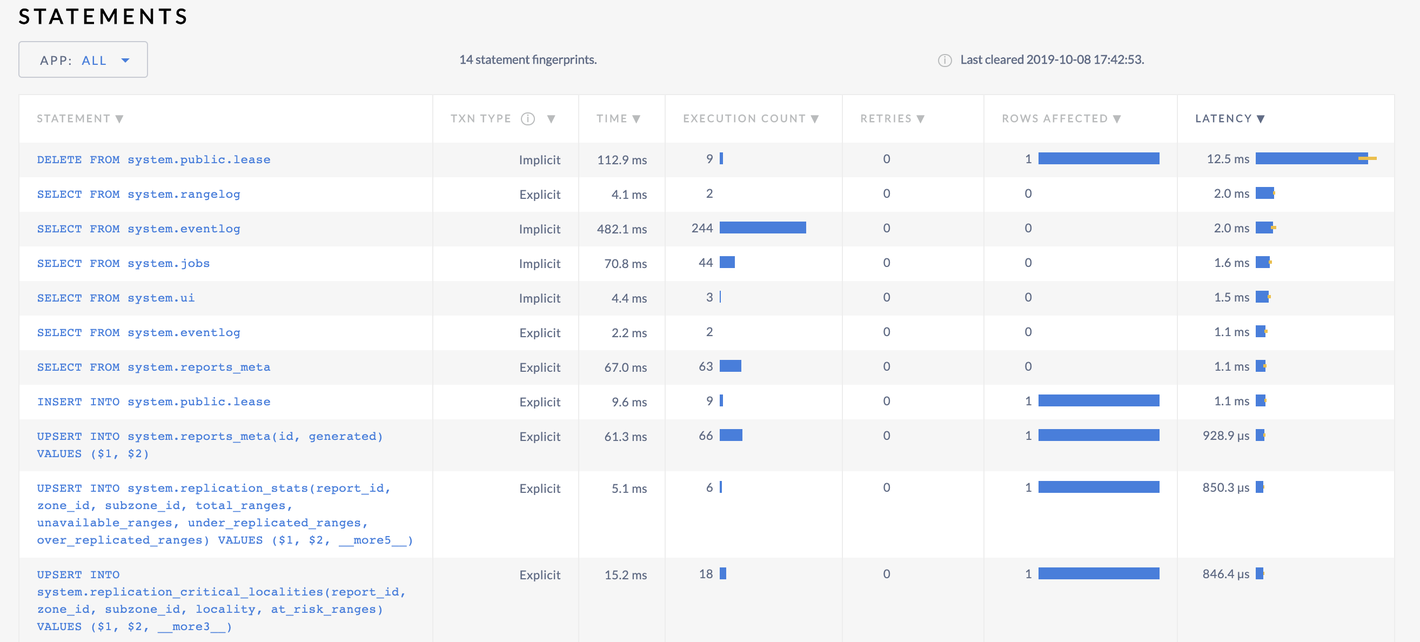
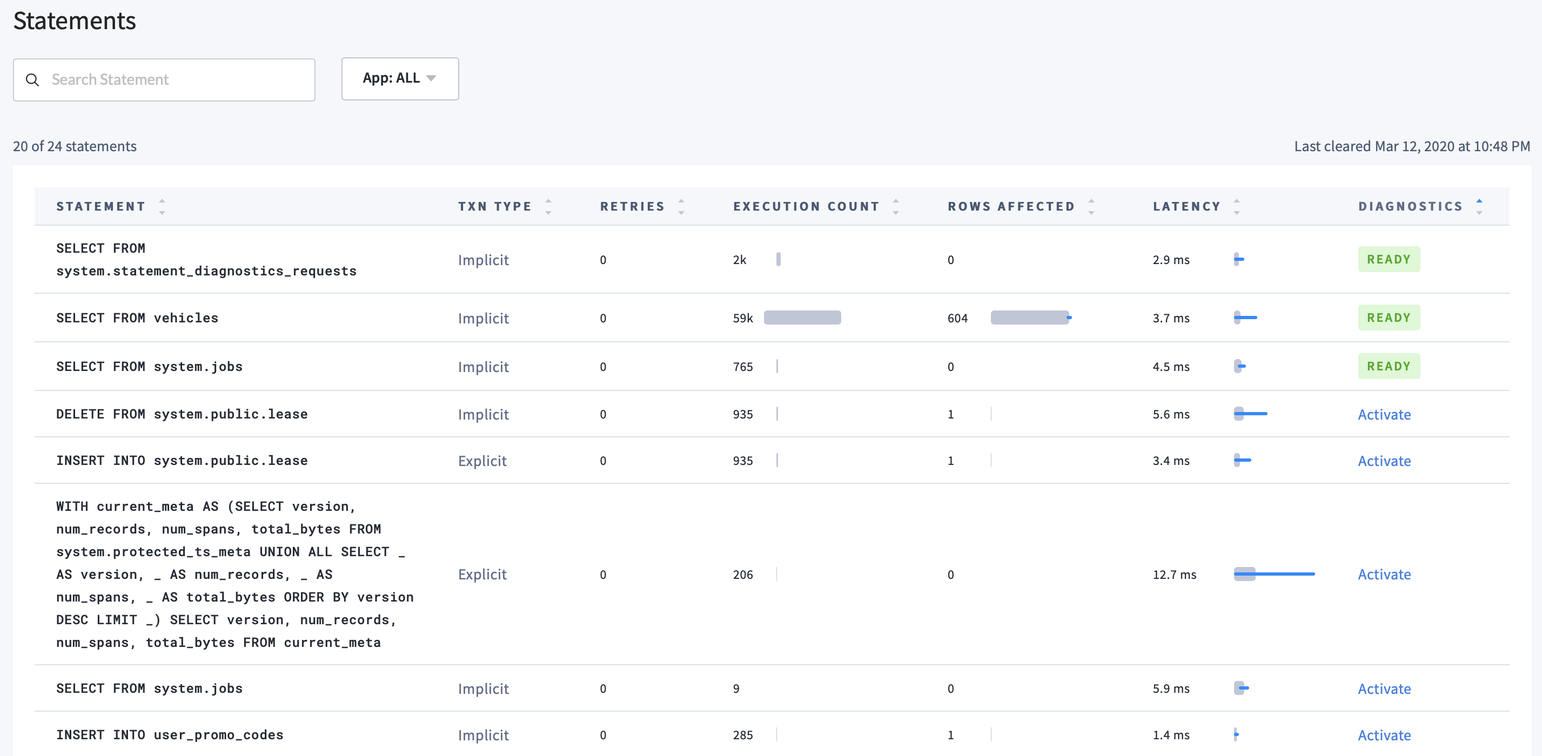
draft Statements page + trace docs

diff --git a/v20.1/admin-ui-statements-page.md b/v20.1/admin-ui-statements-page.md
@@ -7,135 +7,154 @@ toc: true
 On a secure cluster, this area of the Admin UI can only be accessed by an `admin` user. See [Admin UI access](admin-ui-overview.html#admin-ui-access).
 {{site.data.alerts.end}}
 
-The **Statements** page helps you identify frequently executed or high latency [SQL statements](sql-statements.html). The **Statements** page also allows you to view the details of an individual SQL statement by clicking on the statement to view the **Statement Details** page.
+The **Statements** page helps you identify frequently executed or high latency [SQL statements](sql-statements.html), view SQL statement [details](#statement-details), and download SQL statement [diagnostics](#diagnostics) for troubleshooting.
 
-To view the **Statements** page, [access the Admin UI](admin-ui-access-and-navigate.html#access-the-admin-ui) and then click **Statements** on the left.
+To view this page, [access the Admin UI](admin-ui-access-and-navigate.html#access-the-admin-ui) and click **Statements** in the left-hand navigation.
 
-<img src="{{ 'images/v20.1/admin-ui-statements-page.png' | relative_url }}" alt="CockroachDB Admin UI Statements Page" style="border:1px solid #eee;max-width:100%" />
+## Filter by application
 
-## Limitation
+By default, the page shows SQL statements from all applications running on the cluster, and hides internal CockroachDB queries.
 
-The **Statements** page displays the details of the SQL statements executed within a specified time interval. At the end of the interval, the display is wiped clean, and you'll not see any statements on the page until the next set of statements is executed. By default, the time interval is set to one hour; however, you can customize the interval using the [`diagnostics.reporting.interval`](cluster-settings.html#settings) cluster setting.
-
-## Filtering by application
-
-If you have multiple applications running on the cluster, the **Statements** page shows the statements from all of the applications by default. To view the statements pertaining to a particular application, select the [application name](connection-parameters.html#additional-connection-parameters) from the **App** dropdown menu. If you haven't set the application name in the connection string, it appears as `unset` in the dropdown menu.
+Use the **App** menu to filter the statements by [`application_name`](connection-parameters.html#additional-connection-parameters). If you haven't set `application_name` in the client connection string, it appears as `unset`. The menu also includes internal CockroachDB queries.
 
 ## Understanding the Statements page
 
-### SQL statement fingerprint
+Use this page to identify SQL statements that you may want to [troubleshoot](query-behavior-troubleshooting.html). This might include statements that are experiencing high latencies, multiple [retries](transactions.html#transaction-retries), or execution failures. You can optionally create and retrieve [diagnostics](#diagnostics) for these statements.
 
-The **Statements** page displays the details of SQL statement fingerprints instead of individual SQL statements.
+{{site.data.alerts.callout_success}}
+If you haven't yet executed any queries in the cluster as a user, this page will initially be blank.
+{{site.data.alerts.end}}
 
-A statement fingerprint is a grouping of similar SQL statements in their abstracted form by replacing the literal values with underscores (`_`). Grouping similar SQL statements as fingerprints helps you quickly identify frequently executed SQL statements and their latencies.
+<img src="{{ 'images/v20.1/admin-ui-statements-page.png' | relative_url }}" alt="CockroachDB Admin UI Statements Page" style="border:1px solid #eee;max-width:100%" />
 
-A statement fingerprint is generated when two or more statements are the same after any literal values in them (e.g.,numbers and strings) are replaced with underscores. For example, the following statements have the same once their numbers have been replaced with underscores:
+### Time interval
 
-- `INSERT INTO new_order(product_id, customer_id, transaction_id) VALUES (380, 11, 11098)`
-- `INSERT INTO new_order(product_id, customer_id, transaction_id) VALUES (192, 891, 20)`
-- `INSERT INTO new_order(product_id, customer_id, transaction_id) VALUES (784, 452, 78)`
+By default, the Statements page displays all SQL statements executed within a one-hour time interval. The display is cleared at the end of each interval. You can change the interval with the [`diagnostics.reporting.interval`](cluster-settings.html#settings) cluster setting.
 
-Thus, they can have the same fingerprint:
+### SQL statement fingerprints
 
-`INSERT INTO new_order(product_id, customer_id, no_w_id) VALUES (_, _, _)`
+The Statements page displays SQL statement *fingerprints*. 
 
-The following statements are different enough to not have the same fingerprint:
+A statement fingerprint represents one or more SQL statements by replacing literal values (e.g., numbers and strings) with underscores (`_`). This can help you quickly identify frequently executed SQL statements and their latencies.
 
-- `INSERT INTO orders(product_id, customer_id, transaction_id) VALUES (380, 11, 11098)`
-- `INSERT INTO new_order(product_id, customer_id, transaction_id) VALUES (380, 11, 11098)`
-- `INSERT INTO new_order(product_id, customer_id, transaction_id) VALUES ($1, 11, 11098)`
-- `INSERT INTO new_order(product_id, customer_id, transaction_id) VALUES ($1, $2, 11098)`
-- `INSERT INTO new_order(product_id, customer_id, transaction_id) VALUES ($1, $2, $3)`
+{{site.data.alerts.callout_info}}
+For multiple SQL statements to be represented by a fingerprint, they must be identical aside from their values:
 
-### Parameters
+- <code style="white-space:pre-wrap">INSERT INTO new_order(product_id, customer_id, transaction_id) VALUES (380, 11, 11098)</code>
+- <code style="white-space:pre-wrap">INSERT INTO new_order(product_id, customer_id, transaction_id) VALUES (192, 891, 20)</code>
+- <code style="white-space:pre-wrap">INSERT INTO new_order(product_id, customer_id, transaction_id) VALUES (784, 452, 78)</code>
 
-The **Statements** page displays the time, execution count, number of [retries](transactions.html#transaction-retries), number of rows affected, and latency for each statement fingerprint. By default, the statement fingerprints are sorted by time; however, you can sort the table by execution count, retries, rows affected, and latency.
+The above SQL statements have the fingerprint: 
 
-The following details are provided for each statement fingerprint:
+<code style="white-space:pre-wrap">INSERT INTO new_order(product_id, customer_id, no_w_id) VALUES (_, _, _)</code>
+
+The following statements cannot be represented by the same fingerprint:
+
+- <code style="white-space:pre-wrap">INSERT INTO orders(product_id, customer_id, transaction_id) VALUES (380, 11, 11098)</code>
+- <code style="white-space:pre-wrap">INSERT INTO new_order(product_id, customer_id, transaction_id) VALUES (380, 11, 11098)</code>
+- <code style="white-space:pre-wrap">INSERT INTO new_order(product_id, customer_id, transaction_id) VALUES ($1, 11, 11098)</code>
+- <code style="white-space:pre-wrap">INSERT INTO new_order(product_id, customer_id, transaction_id) VALUES ($1, $2, 11098)</code>
+- <code style="white-space:pre-wrap">INSERT INTO new_order(product_id, customer_id, transaction_id) VALUES ($1, $2, $3)</code>
+{{site.data.alerts.end}}
 
 Parameter | Description
 -----|------------
-Statement | The SQL statement or the fingerprint of similar SQL statements.<br><br>To view additional details of a statement fingerprint, click on the statement fingerprint in the **Statement** column to see the [**Statement Details** page](#statement-details-page).
-TXN Type | The type of transaction (implicit or explicit). Explicit transactions refer to the statements that are wrapped by [`BEGIN`](begin-transaction.html) and [`COMMIT`](commit-transaction.html) statements by the client. For statements not in explicit transactions, CockroachDB wraps each statement in individual implicit transactions. Explicit transactions employ [transactional pipelining](architecture/transaction-layer.html#transaction-pipelining) and therefore report latencies that do not account for replication.
-Time | The cumulative time taken to execute the SQL statement (or multiple statements having the same fingerprint) within the last hour or the [specified time interval](#limitation).
-Execution Count | The total number of times the SQL statement (or multiple statements having the same fingerprint) is executed within the last hour or the [specified time interval](#limitation). <br><br>The execution count is displayed in numerical value as well as in the form of a horizontal bar. The bar is color-coded to indicate the ratio of runtime success (indicated by blue) to runtime failure (indicated by red) of the execution count for the fingerprint. The bar also helps you compare the execution count across all SQL fingerprints in the table. <br><br>You can sort the table by count.
-Retries | The cumulative number of retries to execute the SQL statement (or multiple statements having the same fingerprint) within the last hour or the [specified time interval](#limitation).
-Rows Affected | The average number of rows returned while executing the SQL statement (or multiple statements having the same fingerprint) within the last hour or the [specified time interval](#limitation). <br><br>The number of rows returned are represented in two ways: The numerical value shows the number of rows returned, while the horizontal bar is color-coded (blue indicates the mean value and yellow indicates one standard deviation of the mean value of the number of rows returned). The bar helps you compare the mean rows across all SQL fingerprints in the table. <br><br>You can sort the table by rows returned.
-Latency | The average service latency of the SQL statement (or multiple statements having the same fingerprint) within the last hour or the [specified time interval](#limitation). <br><br>The latency is represented in two ways: The numerical value shows the mean latency, while the horizontal bar is color-coded (blue indicates the mean value and yellow indicates one standard deviation of the mean value of latency). The bar also helps you compare the mean latencies across all SQL fingerprints in the table. <br><br>You can sort the table by latency.
+Statement | SQL statement [fingerprint](#sql-statement-fingerprints).<br><br>To view additional details of a SQL statement fingerprint, click this to open the [**Statement Details** page](#statement-details-page).
+Txn Type | Type of transaction (implicit or explicit). Explicit transactions refer to statements that are wrapped by [`BEGIN`](begin-transaction.html) and [`COMMIT`](commit-transaction.html) statements by the client. Explicit transactions employ [transactional pipelining](architecture/transaction-layer.html#transaction-pipelining) and therefore report latencies that do not account for replication.<br><br>For statements not in explicit transactions, CockroachDB wraps each statement in individual implicit transactions. 
+Retries | Cumulative number of [retries](transactions.html#transaction-retries) of statements with this fingerprint within the last hour or specified [time interval](#time-interval).
+Execution Count | Cumulative number of executions of statements with this fingerprint within the last hour or specified [time interval](#time-interval). <br><br>The bar indicates the ratio of runtime success (gray) to runtime failure (red) for the SQL statement fingerprint.
+Rows Affected | Average number of rows returned while executing statements with this fingerprint within the last hour or specified [time interval](#time-interval). <br><br>The gray bar indicates the mean number of rows returned. The blue bar indicates one standard deviation from the mean.
+Latency | Average service latency of statements with this fingerprint within the last hour or specified [time interval](#time-interval). Service latency is the time taken to execute a query once it is received by the cluster. It does not include the time taken to return the result to the client. <br><br>The gray bar indicates the mean latency. The blue bar indicates one standard deviation from the mean.
+Diagnostics | <span class="version-tag">New in v20.1:</span> Option to activate [diagnostics](#diagnostics) for this statement. If activated, this displays the status of diagnostics collection (`WAITING FOR QUERY`, `READY`, OR `ERROR`).
 
 ## Statement Details page
 
-The **Statement Details** page displays the logical plan as well as the details of the time, execution count, retries, rows returned, and latency by phase and by gateway node for the selected statement fingerprint.
+Click on a SQL statement fingerprint to open **Statement Details**. This includes an [overview](#overview), [diagnostics](#diagnostics), [statistics](#execution-stats), and the [logical plan](#logical-plan) for the fingerprint.
 
 <img src="{{ 'images/v20.1/admin_ui_statements_details_page.png' | relative_url }}" alt="CockroachDB Admin UI Statements Page" style="border:1px solid #eee;max-width:100%" />
 
-### Logical plan
+### Overview
 
-The **Logical Plan** section displays CockroachDB's query plan for an [explainable statement](https://www.cockroachlabs.com/docs/stable/sql-grammar.html#preparable_stmt). You can then use this information to optimize the query. For more information about logical plans, see [`EXPLAIN`](https://www.cockroachlabs.com/docs/stable/explain.html).
+The **Overview** section displays the SQL statement fingerprint and essential statistics on the right-hand side of the page:
 
-By default, the logical plan for each fingerprint is sampled every 5 minutes. You can use the `sql.metrics.statement_details.plan_collection.period` [cluster setting](cluster-settings.html) to change this time interval. For example, to change the interval to 2 minutes, run the following [`SET CLUSTER SETTING`](set-cluster-setting.html) command:
+- **Total Time** is the cumulative time taken to execute statements with this fingerprint within the last hour or [specified time interval](#time-interval).
+- **Mean Service Latency** is the average service latency of statements with this fingerprint within the last hour or [specified time interval](#time-interval).
+- **App** displays the name specified by the [`application_name`](show-vars.html#supported-variables) session setting.
+- **Transaction Type** displays the type of transaction (implicit or explicit).
+- **Distributed execution?** indicates whether the execution was distributed.
+- **Used cost-based optimizer?** indicates whether the execution used the [cost-based optimizer](cost-based-optimizer.html).
+- **Failed?** indicates whether the execution was successful.
+
+**Execution Count** displays execution statistics for the SQL statement fingerprint.
+
+- **First Attempts** is the cumulative number of first attempts at executing statements with this fingerprint within the last hour or [specified time interval](#time-interval).
+- **Retries** is the cumulative number of retries of statements with this fingerprint within the last hour or [specified time interval](#time-interval).
+- **Max Retries** is the highest number of retries of a single statement with this fingerprint within the last hour or [specified time interval](#time-interval). For example, if three statements with the same fingerprint had to be retried 0, 1, and 5 times, then the Max Retries value for the fingerprint is 5.
+- **Total** is the total number of executions of statements with this fingerprint. It is calculated as the sum of first attempts and retries.
+
+**Rows Affected** displays statistics on rows returned for the SQL statement fingerprint.
+
+- **Mean Rows** is the average number of rows returned while executing statements with this fingerprint within the last hour or [specified time interval](#time-interval).
+- **Standard Deviation** is the value of one standard deviation of the mean.
+
+### Diagnostics
+
+The **Diagnostics** section of the Statement Details page allows you to activate and view diagnostics for the SQL statement fingerprint.
+
+When you activate diagnostics for a fingerprint, CockroachDB looks for SQL queries that match this fingerprint. On the next match, information about the SQL statement is written to a diagnostics bundle that you can download. This bundle consists of a JSON file that contains a distributed trace of the SQL statement. 
+
+<img src="{{ 'images/v20.1/admin_ui_statements_diagnostics.png' | relative_url }}" alt="CockroachDB Admin UI Statements Page" style="border:1px solid #eee;max-width:100%" />
+
+- Click the **Activate** button to begin collecting diagnostics for the fingerprint. This will open the list of **Statement diagnostics** with a status next to each activated diagnostic.
+	- `WAITING FOR QUERY` indicates that a SQL statement matching the fingerprint has not yet been recorded.
+	- `ERROR` indicates that the attempt at diagnostics collection failed.
+	- `READY` indicates that the diagnostics have run and can be downloaded. A **Download** link will appear beside the status.
+- For any row with a `READY` status, click **Download** to retrieve the diagnostics.
+
+After downloading the statement diagnostics, you will have a JSON file that represents transaction events across nodes for the SQL statement. The information collected here can be used to diagnose problematic SQL statements, such as [slow queries](query-behavior-troubleshooting.html#query-is-always-slow).
+
+We currently recommend that you share the diagnostics with our [support team](support-resources.html), which can help you interpret the results.
+
+{{site.data.alerts.callout_info}}
+This is different from the output of [`SHOW TRACE FOR SESSION`](show-trace.html), which returns messages and timing information for all statements recorded during a session.
+{{site.data.alerts.end}}
+
+Click **All statement diagnostics** to view a complete history of your collected diagnostics, each of which can be downloaded.
+
+### Logical Plan
+
+The **Logical Plan** section displays CockroachDB's query plan for an [explainable statement](sql-grammar.html#preparable_stmt). You can use this information to optimize the query. For more information about logical plans, see [`EXPLAIN`](explain.html).
+
+<img src="{{ 'images/v20.1/admin_ui_statements_logical_plan.png' | relative_url }}" alt="CockroachDB Admin UI Statements Page" style="border:1px solid #eee;max-width:100%" />
+
+By default, the logical plan for each fingerprint is sampled every 5 minutes. You can change the interval with the [`sql.metrics.statement_details.plan_collection.period`](cluster-settings.html#settings) cluster setting. For example, to change the interval to 2 minutes, run the following [`SET CLUSTER SETTING`](set-cluster-setting.html) command:
 
 {% include copy-clipboard.html %}
 ~~~ sql
 > SET CLUSTER SETTING sql.metrics.statement_details.plan_collection.period  = '2m0s';
 ~~~
 
-### Latency by Phase
+### Execution Stats
 
-The **Latency by Phase** table provides the mean value and one standard deviation of the mean value of the overall service latency as well as latency for each execution phase (parse, plan, run) for the SQL statement (or multiple statements having the same fingerprint). The table provides the service latency details in numerical values as well as color-coded bar graphs: blue indicates the mean value and yellow indicates one standard deviation of the mean value of latency.
+**Execution Latency by Phase** displays the service latency of statements matching this fingerprint, broken down by phase (parse, plan, run, overhead), as well as the overall service latency. The gray bar indicates the mean latency. The blue bar indicates one standard deviation from the mean.
 
-### Statistics by Gateway Node
+{{site.data.alerts.callout_info}}
+Service latency can be affected by network latency, which is displayed for your cluster on the [Network Latency](admin-ui-network-latency-page.html) page.
+{{site.data.alerts.end}}
 
-The **Statistics by Gateway Node** table provides a breakdown of the number of statements of the selected fingerprint per gateway node. For each gateway node, the table also provides the following details:
-
-Parameter | Description
------|------------
-Node | The ID of the gateway node.
-Time | The cumulative time taken to execute the statement within the last hour or the [specified time interval](#limitation).
-Execution Count | The total number of times the SQL statement (or multiple statements having the same fingerprint) is executed.
-Retries | The cumulative number of retries to execute the SQL statement (or multiple statements having the same fingerprint) within the last hour or the [specified time interval](#limitation).
-Rows Affected | The average number of rows returned while executing the SQL statement (or multiple statements having the same fingerprint) within the last hour or the [specified time interval](#limitation). <br><br>The number of rows returned are represented in two ways: The numerical value shows the number of rows returned, while the horizontal bar is color-coded (blue indicates the mean value and yellow indicates one standard deviation of the mean value of the number of rows returned). The bar helps you compare the mean rows across all SQL fingerprints in the table. <br><br>You can sort the table by rows returned.
-Latency | The average service latency of the SQL statement (or multiple statements having the same fingerprint) within the last hour or the [specified time interval](#limitation). <br><br>The latency is represented in two ways: The numerical value shows the mean latency, while the horizontal bar is color-coded (blue indicates the mean value and yellow indicates one standard deviation of the mean value). The bar also helps you compare the mean latencies across all SQL fingerprints in the table. <br><br>You can sort the table by latency.
-
-### Execution Count
-
-The **Execution Count** table provides information about the following parameters in numerical values as well as bar graphs:
+The **Statistics by Node** table provides a breakdown of the number of statements of the selected fingerprint per gateway node.
 
 Parameter | Description
 -----|------------
-First Attempts | The cumulative number of first attempts to execute the SQL statement (or multiple statements having the same fingerprint) within the last hour or the [specified time interval](#limitation).
-Retries | The cumulative number of retries to execute the SQL statement (or multiple statements having the same fingerprint) within the last hour or the [specified time interval](#limitation).
-Max Retries | The highest number of retries for a single SQL statement with this fingerprint within the last hour or the [specified time interval](#limitation). <br><br>For example, if three statements having the same fingerprint had to be retried 0, 1, and 5 times, then the Max Retries value for the fingerprint is 5.
-Total | The total number of executions of statements with this fingerprint. It is calculated as the sum of first attempts and cumulative retries.
-
-### Row Count
-
-The **Row Count** table provides the mean value and one standard deviation of the mean value of cumulative count of rows returned by the SQL statement (or multiple statements having the same fingerprint). The table provides the service latency details in numerical values as well as a bar graph.
-
-### Statistics
-
-The statistics box on the right-hand side of the **Statements Details** page provides the following details for the statement fingerprint:
-
-Parameter | Description
------|------------
-Total time | The cumulative time taken to execute the SQL statement (or multiple statements having the same fingerprint) within the last hour or the [specified time interval](#limitation).
-Execution count | The total number of times the SQL statement (or multiple statements having the same fingerprint) is executed within the last hour or the [specified time interval](#limitation).
-Executed without retry | The percentage of successful executions of the SQL statement (or multiple statements having the same fingerprint) on the first attempt within the last hour or the [specified time interval](#limitation).
-Mean service latency | The average service latency of the SQL statement (or multiple statements having the same fingerprint) within the last hour or the [specified time interval](#limitation).
-Mean number of rows | The average number of rows returned while executing the SQL statement (or multiple statements having the same fingerprint) within the last hour or the [specified time interval](#limitation).
-
-The table below the statistics box provides the following details:
-
-Parameter | Description
------|------------
-App | Name of the application specified by the [`application_name`](https://www.cockroachlabs.com/docs/dev/show-vars.html#supported-variables) session setting. The **Statements Details** page shows the details for this application.
-Transaction Type | The type of transaction (implicit or explicit). Explicit transactions refer to the statements that are wrapped by `BEGIN` and `COMMIT` statements by the client. For statements not in explicit transactions, CockroachDB wraps each statement in individual implicit transactions. Explicit transactions employ [transactional pipelining](architecture/transaction-layer.html#transaction-pipelining) and therefore report latencies that do not account for replication.
-Distributed execution? | Indicates whether the statement execution was distributed.
-Used cost-based optimizer? | Indicates whether the statement (or multiple statements having the same fingerprint) were executed using the [cost-based optimizer](cost-based-optimizer.html).
-Failed? | Indicate if the statement (or multiple statements having the same fingerprint) were executed successfully.
+Node | ID of the gateway node.
+Retries | Cumulative number of [retries](transactions.html#transaction-retries) of statements with this fingerprint within the last hour or specified [time interval](#time-interval).
+Execution Count | Cumulative number of executions of statements with this fingerprint within the last hour or specified [time interval](#time-interval).
+Rows Affected | Average number of rows returned while executing statements with this fingerprint within the last hour or specified [time interval](#time-interval). <br><br>The gray bar indicates the mean number of rows returned. The blue bar indicates one standard deviation from the mean.
+Latency | Average service latency of statements with this fingerprint within the last hour or specified [time interval](#time-interval). Service latency is the time taken to execute a query once it is received by the cluster. It does not include the time taken to return the result to the client. <br><br>The gray bar indicates the mean latency. The blue bar indicates one standard deviation from the mean.
 
 ## See also
 
-- [Troubleshooting Overview](troubleshooting-overview.html)
+- [Troubleshoot Query Behavior](query-behavior-troubleshooting.html)
+- [Transaction retries](transactions.html#transaction-retries)
 - [Support Resources](support-resources.html)
 - [Raw Status Endpoints](monitoring-and-alerting.html#raw-status-endpoints)

diff --git a/v20.1/query-behavior-troubleshooting.md b/v20.1/query-behavior-troubleshooting.md
@@ -20,9 +20,11 @@ To detect whether your cluster has slow queries, check the [service latency grap
 
 Once you determine that you do have slow queries in your cluster, use the [Statements page](admin-ui-statements-page.html) to identify the high latency [SQL statements](sql-statements.html). To view the Statements page, [access the Admin UI](admin-ui-access-and-navigate.html#access-the-admin-ui) and then click Statements on the left.
 
-You can then use the [Statements Details](admin-ui-statements-page.html#statement-details-page) page to drill down to individual statements. You can also use [`EXPLAIN ANALYZE`](explain-analyze.html) statement, which executes a SQL query and returns a physical query plan with execution statistics. Query plans provide information around SQL execution, which can be used to troubleshoot slow queries by figuring out where time is being spent, how long a processor (i.e., a component that takes streams of input rows and processes them according to a specification) is not doing work, etc.
+You can then use the [Statement Details](admin-ui-statements-page.html#statement-details-page) page to drill down to individual statements and [activate diagnostics](admin-ui-statements-page.html#diagnostics) for the statement that you can send to our [support team](support-resources.html) for analysis.
 
-If you need help interpreting the output of the `EXPLAIN ANALYZE` statement, [contact us](file-an-issue.html).
+You can also use [`EXPLAIN ANALYZE`](explain-analyze.html) statement, which executes a SQL query and returns a physical query plan with execution statistics. Query plans provide information around SQL execution, which can be used to troubleshoot slow queries by figuring out where time is being spent, how long a processor (i.e., a component that takes streams of input rows and processes them according to a specification) is not doing work, etc.
+
+If you need help interpreting the output of the `EXPLAIN ANALYZE` statement, [contact us](support-resources.html).
 
 ## Query is sometimes slow
 
@@ -30,7 +32,7 @@ If the query performance is irregular:
 
 1.  Run [`SHOW TRACE`](show-trace.html) for the query twice: once when the query is performing as expected and once when the query is slow.
 
-2.  [Contact us](file-an-issue.html) to analyze the outputs of the `SHOW TRACE` command.
+2.  [Contact us](support-resources.html) to analyze the outputs of the `SHOW TRACE` command.
 
 ## Cancelling running queries
 
@@ -44,7 +46,7 @@ Throughput is affected by the disk I/O, CPU usage, and network latency. Use the 
 
 - CPU usage: [CPU percent](admin-ui-hardware-dashboard.html#cpu-percent)
 
-- Network latency: [Service latency SQL 99th percentile](admin-ui-overview-dashboard.html#service-latency-sql-99th-percentile)
+- Network latency: [Network Latency page](admin-ui-network-latency-page.html)
 
 ## Single hot node
 
